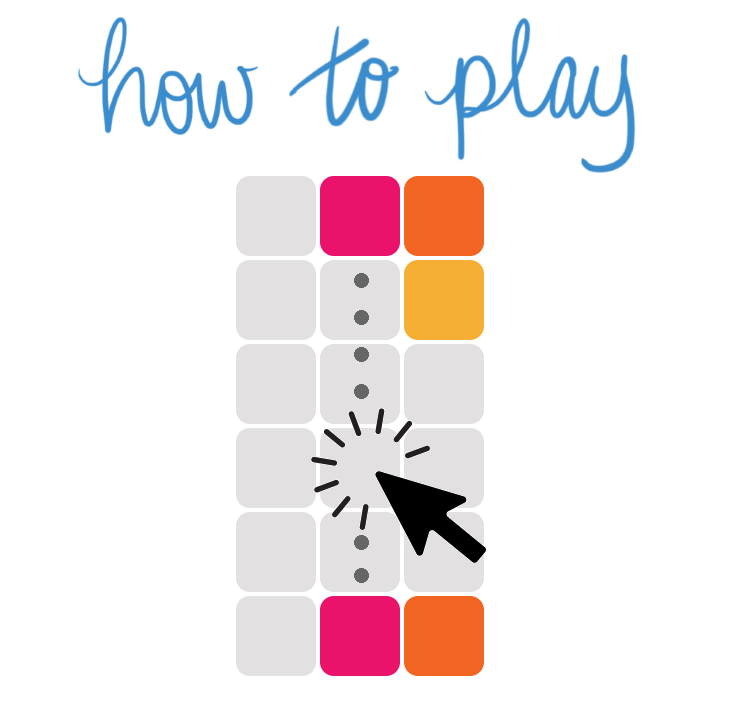
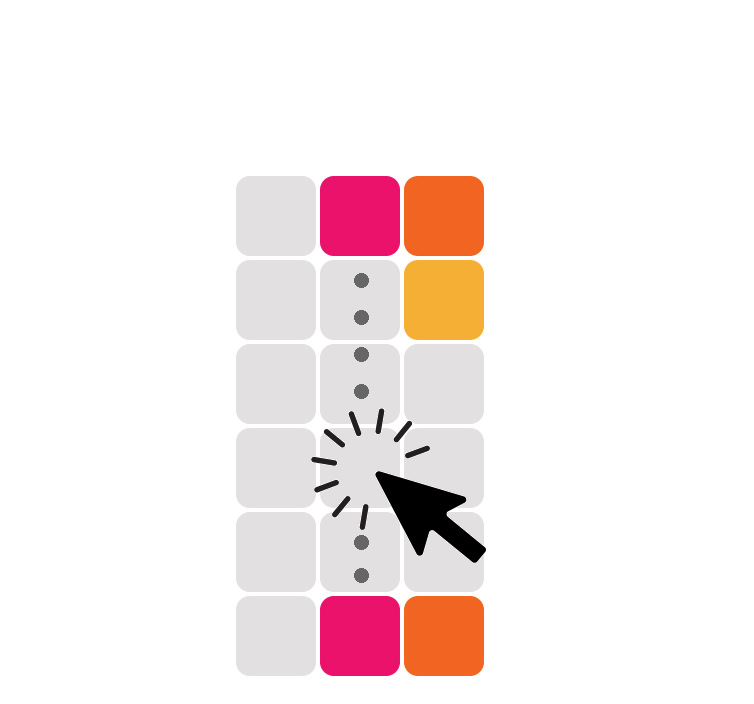
move links to control bar, update how to play

diff --git a/index.html b/index.html
@@ -29,16 +29,15 @@
 						<li class="start shrink"><i class="fa fa-play" aria-hidden="true"></i></li>
 						<li class="pause shrink"><i class="fa fa-pause" aria-hidden="true"></i></li>
 						<li class="toggle-howto"><i class="fa fa-question" aria-hidden="true"></i></li>
+						<li class="links"><a href="http://antpensi.com"><i class="fa fa-user" aria-hidden="true"></i></a></li>
+						<li class="links"><a href="http://github.com/antpensi"><i class="fa fa-github" aria-hidden="true"></i></a></li>
+						<li class="links"><a href="https://www.linkedin.com/in/anthony-pensiero"><i class="fa fa-linkedin" aria-hidden="true"></i></a></li>
+						</li>
 					</ul>
-
 				</div>
 				<div class="how-to-play-div">
-					<img class="how-to-play" src="./app/assets/images/how-to-play.png" />
-					<ul class="links group">
-						<li><a href="http://antpensi.com"><i class="fa fa-user" aria-hidden="true"></i></a></li>
-						<li><a href="http://github.com/antpensi"><i class="fa fa-github" aria-hidden="true"></i></a></li>
-						<li><a href="https://www.linkedin.com/in/anthony-pensiero"><i class="fa fa-linkedin" aria-hidden="true"></i></a></li>
-					</ul>
+					<img class="htp-words" src="./app/assets/images/how-to-play-words.png" />
+					<img class="how-to-play" loop=infinite src="./app/assets/images/giphyPongpo.gif" />
 				</div>
 			</div>
 	</body>

diff --git a/css/style.css b/css/style.css
@@ -97,12 +97,17 @@ li > i {
 	background: #fff;
 }
 
-.links, .display-list {
+.display-list {
   border: none;
-  margin-bottom: 5px;
+  margin-top: 0px;
+  margin-bottom: 0px;
 }
 
-.time, .scoreboard, .paused, .game-over, .display-list > li, .links > li {
+.links > li > a {
+  font-size: 20px;
+}
+
+.time, .scoreboard, .paused, .game-over, .display-list > li, .links {
   float: left;
   width: auto;
   height: auto;
@@ -122,13 +127,18 @@ li > i {
   display: none;
 }
 
+.htp-words {
+  height: 75%;
+  width: 75%;
+}
+
 .shown {
   display: block;
 }
 
 .how-to-play {
-  height: 100%;
-  width: 100%;
+  height: 75%;
+  width: 75%;
 }
 
 .game-over-div {
